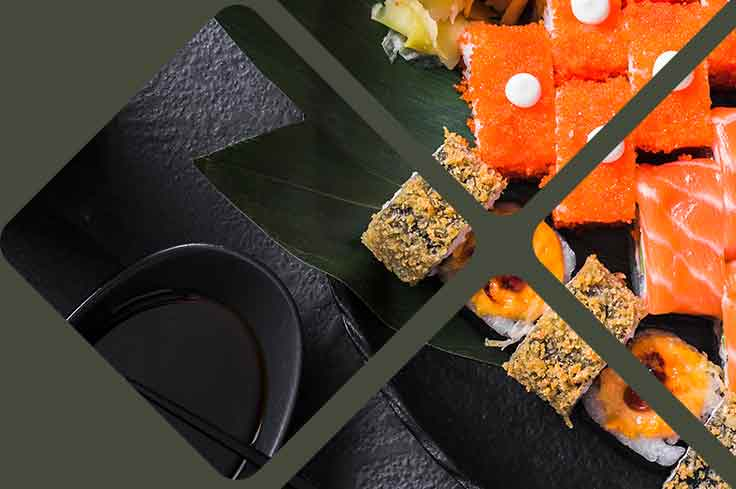
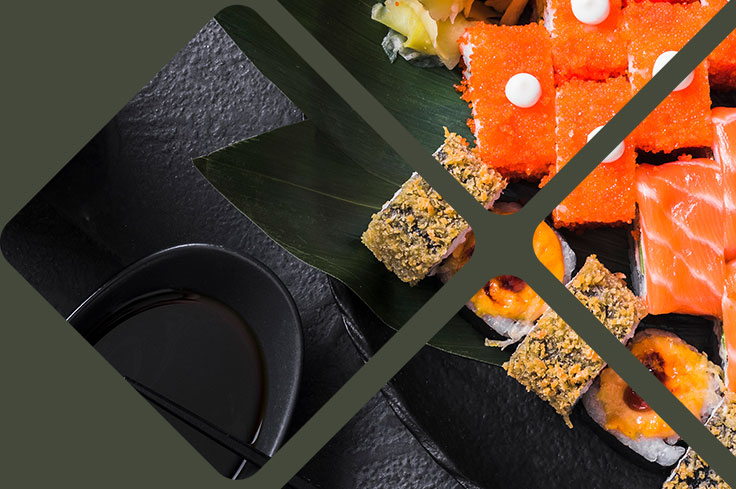
add new block (50%)

diff --git a/css/style.scss b/css/style.scss
@@ -78,7 +78,7 @@ header{
 }
 .container{
    width: 100%;
-   max-width: 1450px;
+   max-width: 1780px;
    margin: 0 auto;
    height: 100%;
    .content{
@@ -151,12 +151,12 @@ header{
       }
    }
    .actually__cook{
+      position: relative;
       display: flex;
       justify-content: space-between;
       align-items: center;
-      box-shadow: inset 20px 20px 50px -10px rgba(0,0,0,1);
       min-height: 450px;
-      background: url(../img/sectionOne.png) no-repeat 100% 100%;
+      background: url(../img/sectionOne2.png) no-repeat 100% 100%;
       .actually__cook__text{
          width: 45%;
          margin:0 5%;      
@@ -168,7 +168,6 @@ header{
             margin-bottom: 40px;   
          }
          p{
-            
             font-size: 18.75px;
             font-family: "Montserrat" light;
             color: rgb( 255, 255, 255 );
@@ -179,47 +178,96 @@ header{
 }
 
 .scills__wrap{
-      height: auto;
-      padding: 100px 0;
-      background-color: rgba( 175, 198, 123, .5);
-      width: 100%;
-      display: flex;
-      flex-wrap: wrap;
-      justify-content: center;
-      align-content: center;
-      align-items: center;
-      .scills__content{
-         width: 30%;
-         margin: 0 10px;
-         text-align: left;
-         color: rgb( 234, 234, 234 );
-         .scills__tittle{
-            position: relative;
-            padding: 30px 0;
-            font-size: 25px;
-            font-family: $Sansita;
-         //    &:after{
-         //    content: '';
-         //    position: absolute;
-         //    top: -15px;
-         //    left: 0;
-         //    background-image: url(../img/brush.png);
-         //    background-repeat: no-repeat;
-         //    background-size: cover;
-         //    width: 28px;
-         //    height: 35px;
-         // }
-         } 
-         .scills__subtittle{
-            font-size: 16px;
-            font-family: $Montserrat;
-            line-height: 1.5;
-         }      
+   height: auto;
+   padding: 100px 0;
+   background-color: rgba( 175, 198, 123, .3);
+   display: flex;
+   flex-wrap: wrap;
+   justify-content: space-around;
+   align-content: center;
+   .scills__content{
+      width: 33.3333%;
+      padding: 0 100px;
+      text-align: left;
+      color: rgb( 234, 234, 234 );
+      .scills__tittle{
+         position: relative;
+         padding: 30px 0;
+         font-size: 25px;
+         font-family: $Sansita;
+      } 
+      .scills__subtittle{
+         font-size: 16px;
+         font-family: $Montserrat;
+         line-height: 1.5;
+      }      
+   }
+}
+
+.tradition{
+
+   .tradition__item__wrap {
+   display: flex;
+   justify-content: space-around;
+   flex-wrap: wrap;
+   margin: 80px 120px ;
+   background: rgba( 175, 198, 123, .3);
+      .tradition__item{
+         width: 50%;
+         min-width: 530px;
+         height: 275px;
+         border: 1px solid #212121;
+            &:nth-child(1){
+            height: 200px;
+            width: 100%;
+
+            h2{
+               padding-top: 65px;
+               align-items: center;
+               font-size: 25px;
+               font-weight: 600;
+               font-family: $Sansita;
+               color: $color_main;
+               line-height: 1.33;
+               text-align: center;
+            }
+            p{
+               font-size: 16.667px;
+               font-family: $Montserrat;
+               color: rgb( 234, 234, 234 );
+               line-height: 1.5;
+               text-align: center;
+               text-transform: uppercase;
+            }
+         }
       }
    }
+}
 
 
 
+
+
+
+
+
+
+
+
+
+
+
+
+.fon{
+   img{
+      max-width: 100%;
+      position: absolute;
+      top: 0;
+      z-index: -1;
+      left: 50%;
+      transform: translate(-50%,0);
+   }
+}
    
 .next-page{
    height: 500px;

diff --git a/css/style.css b/css/style.css
@@ -105,7 +105,7 @@ header {
 
 .container {
   width: 100%;
-  max-width: 1450px;
+  max-width: 1780px;
   margin: 0 auto;
   height: 100%;
 }
@@ -208,6 +208,7 @@ header {
 }
 
 .container .actually__cook {
+  position: relative;
   display: -webkit-box;
   display: -ms-flexbox;
   display: flex;
@@ -217,10 +218,8 @@ header {
   -webkit-box-align: center;
       -ms-flex-align: center;
           align-items: center;
-  -webkit-box-shadow: inset 20px 20px 50px -10px black;
-          box-shadow: inset 20px 20px 50px -10px black;
   min-height: 450px;
-  background: url(../img/sectionOne.png) no-repeat 100% 100%;
+  background: url(../img/sectionOne2.png) no-repeat 100% 100%;
 }
 
 .container .actually__cook .actually__cook__text {
@@ -246,26 +245,21 @@ header {
 .scills__wrap {
   height: auto;
   padding: 100px 0;
-  background-color: rgba(175, 198, 123, 0.5);
-  width: 100%;
+  background-color: rgba(175, 198, 123, 0.3);
   display: -webkit-box;
   display: -ms-flexbox;
   display: flex;
   -ms-flex-wrap: wrap;
       flex-wrap: wrap;
-  -webkit-box-pack: center;
-      -ms-flex-pack: center;
-          justify-content: center;
+  -ms-flex-pack: distribute;
+      justify-content: space-around;
   -ms-flex-line-pack: center;
       align-content: center;
-  -webkit-box-align: center;
-      -ms-flex-align: center;
-          align-items: center;
 }
 
 .scills__wrap .scills__content {
-  width: 30%;
-  margin: 0 10px;
+  width: 33.3333%;
+  padding: 0 100px;
   text-align: left;
   color: #eaeaea;
 }
@@ -281,6 +275,62 @@ header {
   font-size: 16px;
   font-family: "Montserrat", serif;
   line-height: 1.5;
+}
+
+.tradition .tradition__item__wrap {
+  display: -webkit-box;
+  display: -ms-flexbox;
+  display: flex;
+  -ms-flex-pack: distribute;
+      justify-content: space-around;
+  -ms-flex-wrap: wrap;
+      flex-wrap: wrap;
+  margin: 80px 120px;
+  background: rgba(175, 198, 123, 0.3);
+}
+
+.tradition .tradition__item__wrap .tradition__item {
+  width: 50%;
+  min-width: 530px;
+  height: 275px;
+  border: 1px solid #212121;
+}
+
+.tradition .tradition__item__wrap .tradition__item:nth-child(1) {
+  height: 200px;
+  width: 100%;
+}
+
+.tradition .tradition__item__wrap .tradition__item:nth-child(1) h2 {
+  padding-top: 65px;
+  -webkit-box-align: center;
+      -ms-flex-align: center;
+          align-items: center;
+  font-size: 25px;
+  font-weight: 600;
+  font-family: "Sansita Swashed", serif;
+  color: #9baf6d;
+  line-height: 1.33;
+  text-align: center;
+}
+
+.tradition .tradition__item__wrap .tradition__item:nth-child(1) p {
+  font-size: 16.667px;
+  font-family: "Montserrat", serif;
+  color: #eaeaea;
+  line-height: 1.5;
+  text-align: center;
+  text-transform: uppercase;
+}
+
+.fon img {
+  max-width: 100%;
+  position: absolute;
+  top: 0;
+  z-index: -1;
+  left: 50%;
+  -webkit-transform: translate(-50%, 0);
+          transform: translate(-50%, 0);
 }
 
 .next-page {

diff --git a/index.html b/index.html
@@ -92,14 +92,68 @@
     </section>
 
 
-    <section class="next-page">
-        <p title="Unsverrrr" style="font-size: 48px;">new opening</p>
-        <h2 style="font-size: 48px;">23rd sept</h2>
-        </div> <!-- tittle -->
+    <section>
+        <div class="tradition container">
+
+            <div class="tradition__item__wrap">
+                <div class="tradition__item">
+                    <h2>
+                        We bring tradition
+                    </h2>
+                    <p>to your plate</p>
+                </div>
+                <div class="tradition__item">
+
+                </div>
+                <div class="tradition__item">
+
+                </div>
+                <div class="tradition__item">
+
+                </div>
+                <div class="tradition__item">
+
+                </div>
+                <div class="tradition__item">
+
+                </div>
+                <div class="tradition__item">
+
+                </div>
+            </div>
+        </div>
     </section>
 
 
 
+
+
+
+
+
+
+
+
+
+
+    <section class="next-page">
+        <p title="Unsverrrr" style="font-size: 48px;">new opening</p>
+        <h2 style="font-size: 48px;">23rd sept</h2>
+    </section>
+
+
+
+
+
+
+
+
+
+    <div class="fon">
+        <div class="container">
+            <img class="fon" src="./img/VectorSmart.png" alt="" srcset="">
+        </div>
+    </div>
 
     <script src="./js/main.js"></script>
 </body>
